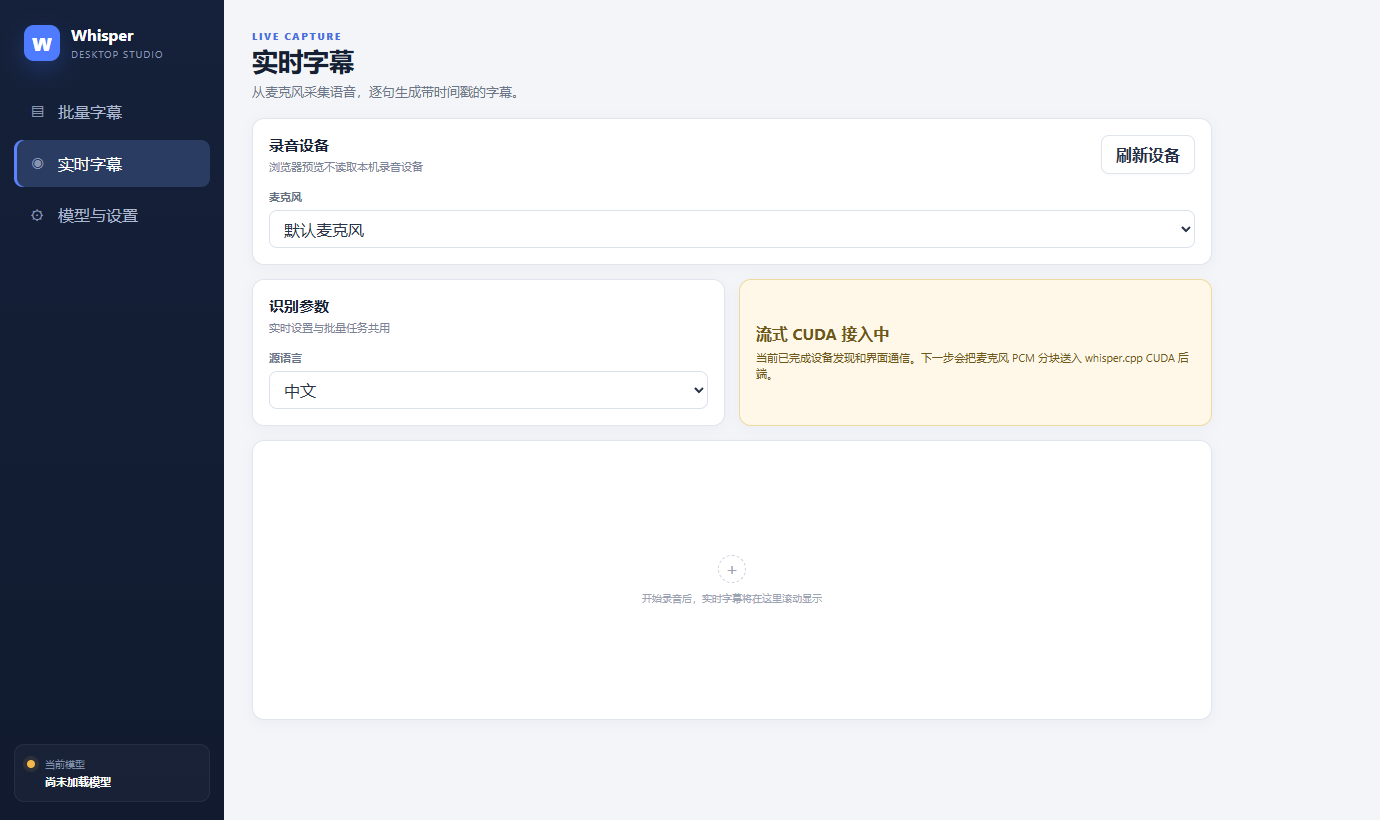
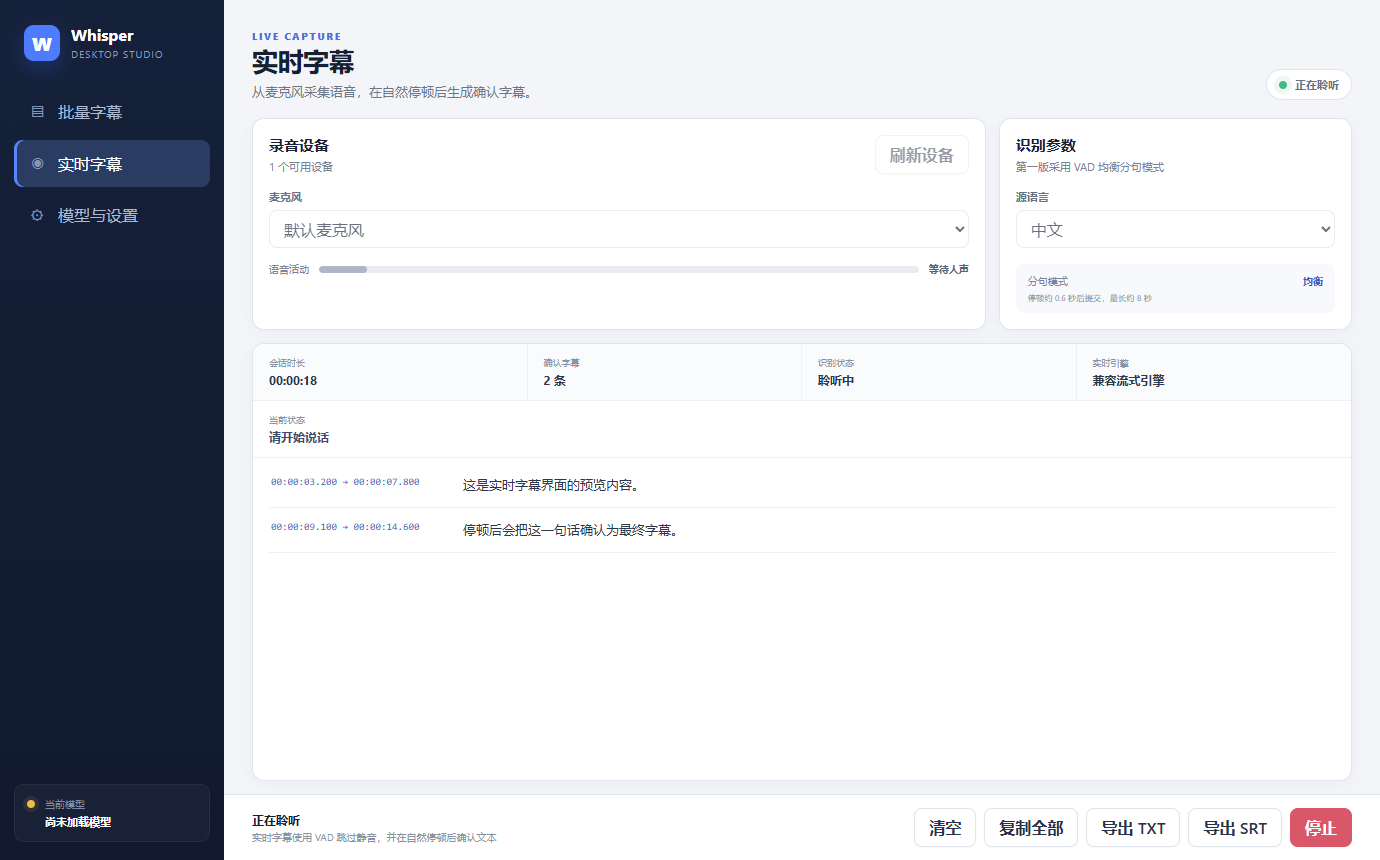
chore: migrate modern desktop to .NET 10

diff --git a/docs/task-progress-and-model-autoload.md b/docs/task-progress-and-model-autoload.md
@@ -1,7 +1,8 @@
 # 任务完成时间估算与模型自动加载设计
 
-状态：评估完成，部分 ETA 基础代码已在工作区实现  
+状态：第一版已实现  
 记录日期：2026-06-15  
+更新日期：2026-06-15  
 
 ## 1. 文档范围
 
@@ -11,6 +12,19 @@
 - 应用启动时自动加载上次选择的模型。
 
 两项功能共用“后台执行、持续反馈、失败可恢复”的设计原则，放在同一份文档便于统一实现和验收。
+
+### 1.1 当前实现摘要
+
+两项功能第一版已经完成：
+
+- 批量字幕会在导入文件时读取媒体时长，并在任务运行时显示总时长、已处理、已用时、实时速度、预计完成时刻和剩余时间。
+- ETA 使用已处理媒体秒数与墙钟耗时计算，并使用 0.8/0.2 的指数平滑降低跳动。
+- ETA 至少运行 10 秒、处理 2 分钟媒体或完成一个有时长文件后才显示。
+- 未知时长文件不参与估算，界面会提示有多少未知时长文件未计入。
+- 启动时自动加载上次模型已实现，配置项为 `AutoLoadModel`，默认开启。
+- 自动加载在 WebView/React 初始化后触发，并有一次性保护，避免重复初始化时重复加载。
+- 模型加载阶段显示已用时间；CUDA/CPU 后端使用不确定型进度，D3D11 使用真实进度回调。
+- 加载期间禁用模型路径、推理引擎和开始转录等易造成状态错乱的操作。
 
 ## 2. 字幕任务 ETA 评估
 
@@ -30,16 +44,16 @@
 
 按典型速度换算，1 小时媒体通常约需 1 分钟；按 P10 的保守速度约需 1 分 17 秒。由于音频内容、模型、推理后端、文件解码和长文件特征都会影响速度，历史固定速度只能作为任务刚开始时的参考，不能作为整个任务的唯一依据。
 
-### 2.2 可行性结论
+### 2.2 实现结论
 
-ETA 可行，而且现有代码已经具备主要数据：
+ETA 已实现，而且现有代码已经使用主要数据：
 
 - 导入时读取媒体总时长。
 - 转录引擎持续报告当前文件进度。
 - 批次秒表记录实际墙钟耗时。
 - 已完成文件记录媒体时长和处理耗时。
 
-推荐核心公式：
+当前核心公式：
 
 ```text
 实时速度 = 已处理媒体秒数 / 已用墙钟秒数
@@ -64,7 +78,7 @@ ETA 可行，而且现有代码已经具备主要数据：
 正在估算完成时间...
 ```
 
-建议满足以下任一条件后再给出 ETA：
+当前满足以下任一条件后再给出 ETA：
 
 - 已运行至少 10 秒。
 - 已处理至少 2 分钟媒体。
@@ -72,7 +86,7 @@ ETA 可行，而且现有代码已经具备主要数据：
 
 ### 2.4 稳定性策略
 
-不能直接使用瞬时速度，否则 ETA 会频繁跳动。第一版可使用批次累计速度，后续再加入指数平滑：
+不能直接使用瞬时速度，否则 ETA 会频繁跳动。第一版已经加入指数平滑：
 
 ```text
 平滑速度 = 旧速度 * 0.8 + 新采样速度 * 0.2
@@ -84,13 +98,11 @@ ETA 可行，而且现有代码已经具备主要数据：
 
 ### 2.5 未知时长文件
 
-当前工作区代码在任一已选文件无法读取时长时，会令整个批次的 `etaSeconds` 为空。这与日志中的“ETA 将忽略此文件”不一致。
-
-推荐改为：
+当前实现已经允许部分文件时长未知：
 
 - 已知时长文件继续参与 ETA。
 - 未知时长文件不计入公式。
-- 界面明确提示 `另有 1 个未知时长文件未计入`。
+- 界面提示未知时长文件数量。
 - 如果所有文件时长都未知，则不显示 ETA。
 
 这样能保留大部分估算价值，也不会把不完整结果伪装成完整结果。
@@ -112,13 +124,23 @@ ETA 可行，而且现有代码已经具备主要数据：
 - 已知时长文件全部选中时，任务运行约 10 秒后出现 ETA。
 - ETA 随任务推进更新，但不会每秒大幅来回跳动。
 - 显示剩余时间和预计完成时刻。
-- 存在未知时长文件时仍显示已知部分估算，并显示范围提示。
+- 存在未知时长文件时仍显示已知部分估算，并显示未计入数量。
 - 停止、失败、重新开始和重新选择队列后，旧 ETA 不残留。
 - 批次完成时 ETA 清空，最终日志保留总时长、总耗时和平均速度。
 
 ## 3. 模型自动加载评估
 
-### 3.1 当前基础
+### 3.1 当前实现
+
+启动自动加载已经完成。现有实现包括：
+
+- 配置保存 `ModelPath`、最近模型、所选推理引擎和 `AutoLoadModel`。
+- React 初始化后触发 `TryAutoLoadModelAsync()`。
+- `autoLoadAttempted` 防止页面重复初始化导致重复加载。
+- 文件不存在时跳过自动加载并给出状态和日志。
+- 加载成功、取消和失败都会恢复界面状态，并允许用户手动处理。
+
+### 3.2 实现前基础
 
 现有实现已经具备自动加载所需的大部分条件：
 
@@ -131,11 +153,9 @@ ETA 可行，而且现有代码已经具备主要数据：
 
 因此，启动时自动加载是可行的，改动范围较小。
 
-### 3.2 推荐触发时机
+### 3.3 触发时机
 
-不建议在 `MainWindow` 构造函数里直接加载。此时 WebView2 和 React 页面尚未准备好，加载状态和进度消息可能丢失。
-
-推荐在前端首次发送 `initialize` 命令后执行：
+自动加载没有放在 `MainWindow` 构造函数里。当前在前端首次发送 `initialize` 命令后执行：
 
 ```csharp
 case "initialize":
@@ -162,31 +182,29 @@ async Task TryAutoLoadModelAsync()
 
 这一时机的优点是界面已经可以立即显示“正在加载模型”，而耗时工作仍在后台线程执行，窗口可以正常移动、切换页面和查看日志。
 
-### 3.3 配置策略
+### 3.4 配置策略
 
-推荐在 `AppConfig` 增加：
+`AppConfig` 已增加：
 
 ```csharp
 public bool AutoLoadModel { get; set; } = true;
 ```
 
-模型与设置页增加“启动时自动加载上次模型”开关，默认开启。虽然也可以简单规定“路径存在就自动加载”，但保留开关更容易处理以下情况：
+模型与设置页已增加“启动时自动加载上次模型”开关，默认开启。保留开关更容易处理以下情况：
 
 - 用户暂时不想占用显存。
 - 用户需要先切换 CUDA、CPU 或 D3D11 后端。
 - 大模型加载时间较长。
 - 排查模型或驱动问题时需要禁用自动行为。
 
-如果希望第一版保持最小改动，也可以暂不增加开关，直接在有效路径存在时自动加载；内部仍应把逻辑封装为 `TryAutoLoadModelAsync()`，方便后续补充设置。
-
-### 3.4 进度条方案
+### 3.5 进度条方案
 
 当前不同引擎的进度精度不一致：
 
 - D3D11 路径可以获得真实的连续加载进度。
 - whisper.cpp CUDA/CPU 当前只报告约 `5%` 和 `100%`，中间原生加载没有连续回调。
 
-因此不应让 CUDA 进度条长时间停在 5%，这容易让用户误以为程序卡住。推荐采用混合展示：
+因此不应让 CUDA 进度条长时间停在 5%，这容易让用户误以为程序卡住。当前采用混合展示：
 
 - 有真实连续进度时，显示确定型百分比进度条。
 - 只有开始和完成事件时，显示不确定型滚动进度条。
@@ -195,21 +213,19 @@ public bool AutoLoadModel { get; set; } = true;
 
 用户真正需要的是确认程序仍在工作，而不是一个看似精确但并不真实的百分比。
 
-如果以后必须提供“大致百分比”，可记录相同引擎和模型文件的历史加载耗时，用历史中位数驱动 5% 到 90% 的平滑动画；真实加载结束时再跳到 100%。该值必须标记为估算，且不应作为第一版必要功能。
+如果以后必须提供“大致百分比”，可记录相同引擎和模型文件的历史加载耗时，用历史中位数驱动 5% 到 90% 的平滑动画；真实加载结束时再跳到 100%。该值必须标记为估算，不应混同为真实进度。
 
-### 3.5 加载时界面行为
+### 3.6 加载时界面行为
 
-加载期间建议：
+加载期间当前行为：
 
 - 页面导航、日志查看和普通窗口操作保持可用。
 - 禁止开始转录。
 - 禁止切换推理引擎、模型路径和再次点击加载。
-- 提供取消加载按钮；现有 `CancellationTokenSource` 可以复用。
+- 提供取消加载按钮；复用 `CancellationTokenSource`。
 - 关闭窗口时沿用现有确认逻辑。
 
-当前前端仅禁用了“加载模型”按钮，模型下拉框和引擎选择还应在 `isLoadingModel` 时禁用，避免加载中的配置与实际加载目标不一致。
-
-### 3.6 失败与回退
+### 3.7 失败与回退
 
 自动加载失败不应阻止应用进入主界面，也不应自动反复重试。
 
@@ -224,11 +240,11 @@ public bool AutoLoadModel { get; set; } = true;
 
 不建议在 CUDA 失败后静默自动切换 CPU，因为这可能造成速度和资源占用与用户预期不一致。
 
-### 3.7 模型切换行为
+### 3.8 模型切换行为
 
 “启动时自动加载”与“设置页选择模型后立即加载”应分开设计。
 
-第一版建议：
+第一版当前行为：
 
 - 启动时：有效路径存在且自动加载开启时自动加载。
 - 运行中更换模型路径：只更新选择，仍由用户点击“加载模型”。
@@ -236,18 +252,18 @@ public bool AutoLoadModel { get; set; } = true;
 
 这样可避免用户只是浏览下拉选项时就意外卸载当前模型或触发大文件加载。后续如果确实需要“选择即加载”，应增加防抖、确认和加载失败回滚。
 
-### 3.8 日志与性能数据
+### 3.9 日志与性能数据
 
-当前日志没有记录模型加载开始、完成和耗时，无法从现有样本量化加载速度。实现自动加载时建议增加：
+当前日志已经记录模型加载开始、完成和耗时：
 
 ```text
 [模型] 开始自动加载：模型名；引擎 CUDA；文件大小 1.5 GB
 [模型] 加载完成：耗时 3.8 秒
 ```
 
-失败时记录路径、引擎、文件大小、耗时和异常。后续可以根据真实数据决定是否值得实现历史加载时间估算。
+失败时记录路径、引擎、耗时和异常。后续可以根据真实数据决定是否值得实现历史加载时间估算。
 
-### 3.9 验收标准
+### 3.10 验收标准
 
 - 配置中存在有效模型路径时，应用启动后自动开始加载。
 - 自动加载只触发一次，页面刷新不会重复加载。
@@ -260,20 +276,20 @@ public bool AutoLoadModel { get; set; } = true;
 
 ## 4. 实施顺序
 
-建议按以下顺序实施：
+第一版实施状态：
 
-1. 修正 ETA 的未知时长文件逻辑，并增加预计完成时刻。
-2. 将 ETA 界面更新降到每秒一次，增加最短采样门槛。
-3. 增加启动自动加载和一次性保护。
-4. 为加载过程增加已用时、取消按钮和控件禁用状态。
-5. 补充模型加载耗时日志。
-6. 累积数据后再决定是否加入历史初始 ETA 和模型加载百分比估算。
+1. 修正 ETA 的未知时长文件逻辑，并增加预计完成时刻。已完成。
+2. 将 ETA 界面更新降到每秒一次，增加最短采样门槛。已完成。
+3. 增加启动自动加载和一次性保护。已完成。
+4. 为加载过程增加已用时、取消按钮和控件禁用状态。已完成。
+5. 补充模型加载耗时日志。已完成。
+6. 累积数据后再决定是否加入历史初始 ETA 和模型加载百分比估算。后续可选。
 
 ## 5. 最终建议
 
-两项功能都值得实现。
+两项功能第一版已经实现。
 
-- 字幕 ETA 应以当前批次实时速度为主，历史速度只用于刚开始时的低置信度估算。
-- 模型自动加载应默认开启但保留关闭选项，在 React 页面初始化完成后触发。
+- 字幕 ETA 以当前批次实时速度为主，暂未引入历史速度初始估算。
+- 模型自动加载默认开启但保留关闭选项，在 React 页面初始化完成后触发。
 - CUDA 模型加载阶段优先使用活动进度条和已用时，不制造虚假的精确百分比。
 - 所有失败都应可恢复，不能因为自动行为让用户无法进入正常工作流程。

diff --git a/docs/product-experience-branding.md b/docs/product-experience-branding.md
@@ -194,16 +194,23 @@ settings.IsZoomControlEnabled = false;
 
 ## 9. .NET 10 升级
 
-当前项目目标是 `.NET 9 / net9.0-windows`。后续可以迁移到 .NET 10 LTS，但它不会直接改善 React 界面、WebView2 右键菜单或 whisper.cpp CUDA 性能。
+状态：已开始迁移现代 WPF 客户端与现代 UI 测试。
 
-推荐顺序：
+现代 WPF 客户端从 `.NET 9 / net9.0-windows` 迁移到 `.NET 10 / net10.0-windows`。这主要是运行时生命周期和维护周期升级，不会直接改善 React 界面、WebView2 右键菜单或 whisper.cpp CUDA 性能。
 
-1. 先完成当前批次统计和近期界面优化。
-2. 安装 .NET 10 SDK，并更新兼容的 Visual Studio 工具链。
-3. 单独迁移到 `net10.0-windows`。
-4. 验证 WebView2、WhisperNet、原生 DLL、发布包和配置升级。
+迁移范围：
 
-.NET 10 升级应作为独立提交，避免和 UI 或推理功能混在一起。
+- `Examples/WhisperDesktop.Wpf` 迁移到 `net10.0-windows`。
+- `Tools/ModernUiTests` 迁移到 `net10.0`。
+- 每日构建脚本更新到 `net10.0-windows` 输出路径，并声明需要 .NET 10 Desktop Runtime。
+- `WhisperNet`、命令行示例、PowerShell 模块和旧工具暂不在本轮迁移，继续保留原有目标框架以降低兼容风险。
+
+验证项：
+
+1. `dotnet build Examples\WhisperDesktop.Wpf\WhisperDesktop.Wpf.csproj -c Release -p:Platform=x64`
+2. `dotnet run --project Tools\ModernUiTests\ModernUiTests.csproj -c Release`
+3. `Tools\package-daily.cmd`
+4. 启动 `WhisperDesktop.Modern.exe` 做一次冒烟检查。
 
 ## 10. 建议优先级
 
@@ -224,6 +231,6 @@ settings.IsZoomControlEnabled = false;
 
 ### 后续架构工作
 
-1. 迁移 .NET 10 LTS。
+1. 完成 .NET 10 LTS 迁移验证与发布包冒烟。
 2. 接入本地 LLM 字幕后处理。
 3. 增加 RAG、术语库和虚拟领域画像。

diff --git a/docs/README.md b/docs/README.md
@@ -1,6 +1,13 @@
 # WhisperDesktop 设计文档
 
-本目录用于保存尚未实现或正在规划的架构方案、功能规格和技术决策。
+本目录用于保存已实现功能的设计记录、正在规划的架构方案、功能规格和技术决策。
+
+## 已实现
+
+- [任务完成时间估算与模型自动加载设计](task-progress-and-model-autoload.md)
+  - 已实现批量字幕 ETA、预计完成时刻、未知时长提示、启动自动加载、加载已用时、取消加载和一次性保护。
+- [实时字幕功能设计](live-subtitles-design.md)
+  - 已实现第一版麦克风实时字幕，使用 VAD 分句、状态展示、确认字幕列表、复制和 TXT/SRT 导出。
 
 ## 规划中
 
@@ -9,9 +16,5 @@
   - 使用术语库、历史修正和虚拟领域画像进行检索增强。
 - [产品体验、品牌与关于页规划](product-experience-branding.md)
   - 记录 WebView2 桌面化、字号、UI 视觉探索、关于页和产品改名方案。
-- [任务完成时间估算与模型自动加载设计](task-progress-and-model-autoload.md)
-  - 基于实际日志评估字幕 ETA，并规划启动时自动加载上次模型的异步流程、进度反馈和失败回退。
-- [实时字幕功能设计](live-subtitles-design.md)
-  - 规划麦克风采集、VAD 分句、CUDA 实时推理、字幕界面、保存导出、状态机和分阶段实施路线。
 
-文档中的“规划中”功能不代表已经进入当前发行版本。正式实施时应根据届时的模型、运行库和硬件支持重新验证具体版本。
+文档中的“规划中”功能不代表已经进入当前发行版本。已实现文档记录的是当前第一版能力和剩余边界，后续迭代仍应根据模型、运行库和硬件支持重新验证具体版本。

diff --git a/Readme.md b/Readme.md
@@ -78,12 +78,12 @@ Releases\Daily\2026-06-13\WhisperDesktop-2026-06-13-win-x64.zip
 每日构建使用独立的临时输出目录，因此正在运行的客户端不会锁住打包所需文件。
 如需重新整理已有编译结果而不再次编译，可以运行
 `Tools\package-daily.cmd -SkipBuild`。每日包为免安装的便携版，目标电脑需要安装
-.NET 9 Desktop Runtime。
+.NET 10 Desktop Runtime。
 
 ### 前置条件
 
-- **Visual Studio 2022**（v143 工具链，含 C++ 桌面开发）
-- **.NET 9 SDK**
+- **Visual Studio 2022 / 2026**（含 C++ x64 桌面开发工具链；.NET 10 推荐使用兼容的新版本 Visual Studio）
+- **.NET 10 SDK**
 - **Node.js**（用于构建 Web 前端）
 - **CUDA Toolkit**（可选，编译 CUDA 后端时需要）
 
@@ -175,7 +175,7 @@ dotnet run --project Examples\MicrophoneCS\MicrophoneCS.csproj -c Debug -p:Platf
 
 - 请确保输出目录中存在 `Whisper.dll`
 - 请确保模型文件路径正确
-- .NET 示例默认目标为 `net9.0-windows`，需要本机安装对应 .NET 运行时
+- 现代 WPF 客户端目标为 `net10.0-windows`，需要本机安装对应 .NET 运行时；部分旧 .NET 示例仍保留 `net6.0-windows`
 - 运行 WPF 版本需要系统已安装 WebView2 Runtime（Windows 11 及较新的 Windows 10 通常已内置）
 
 ## 界面与功能概览
